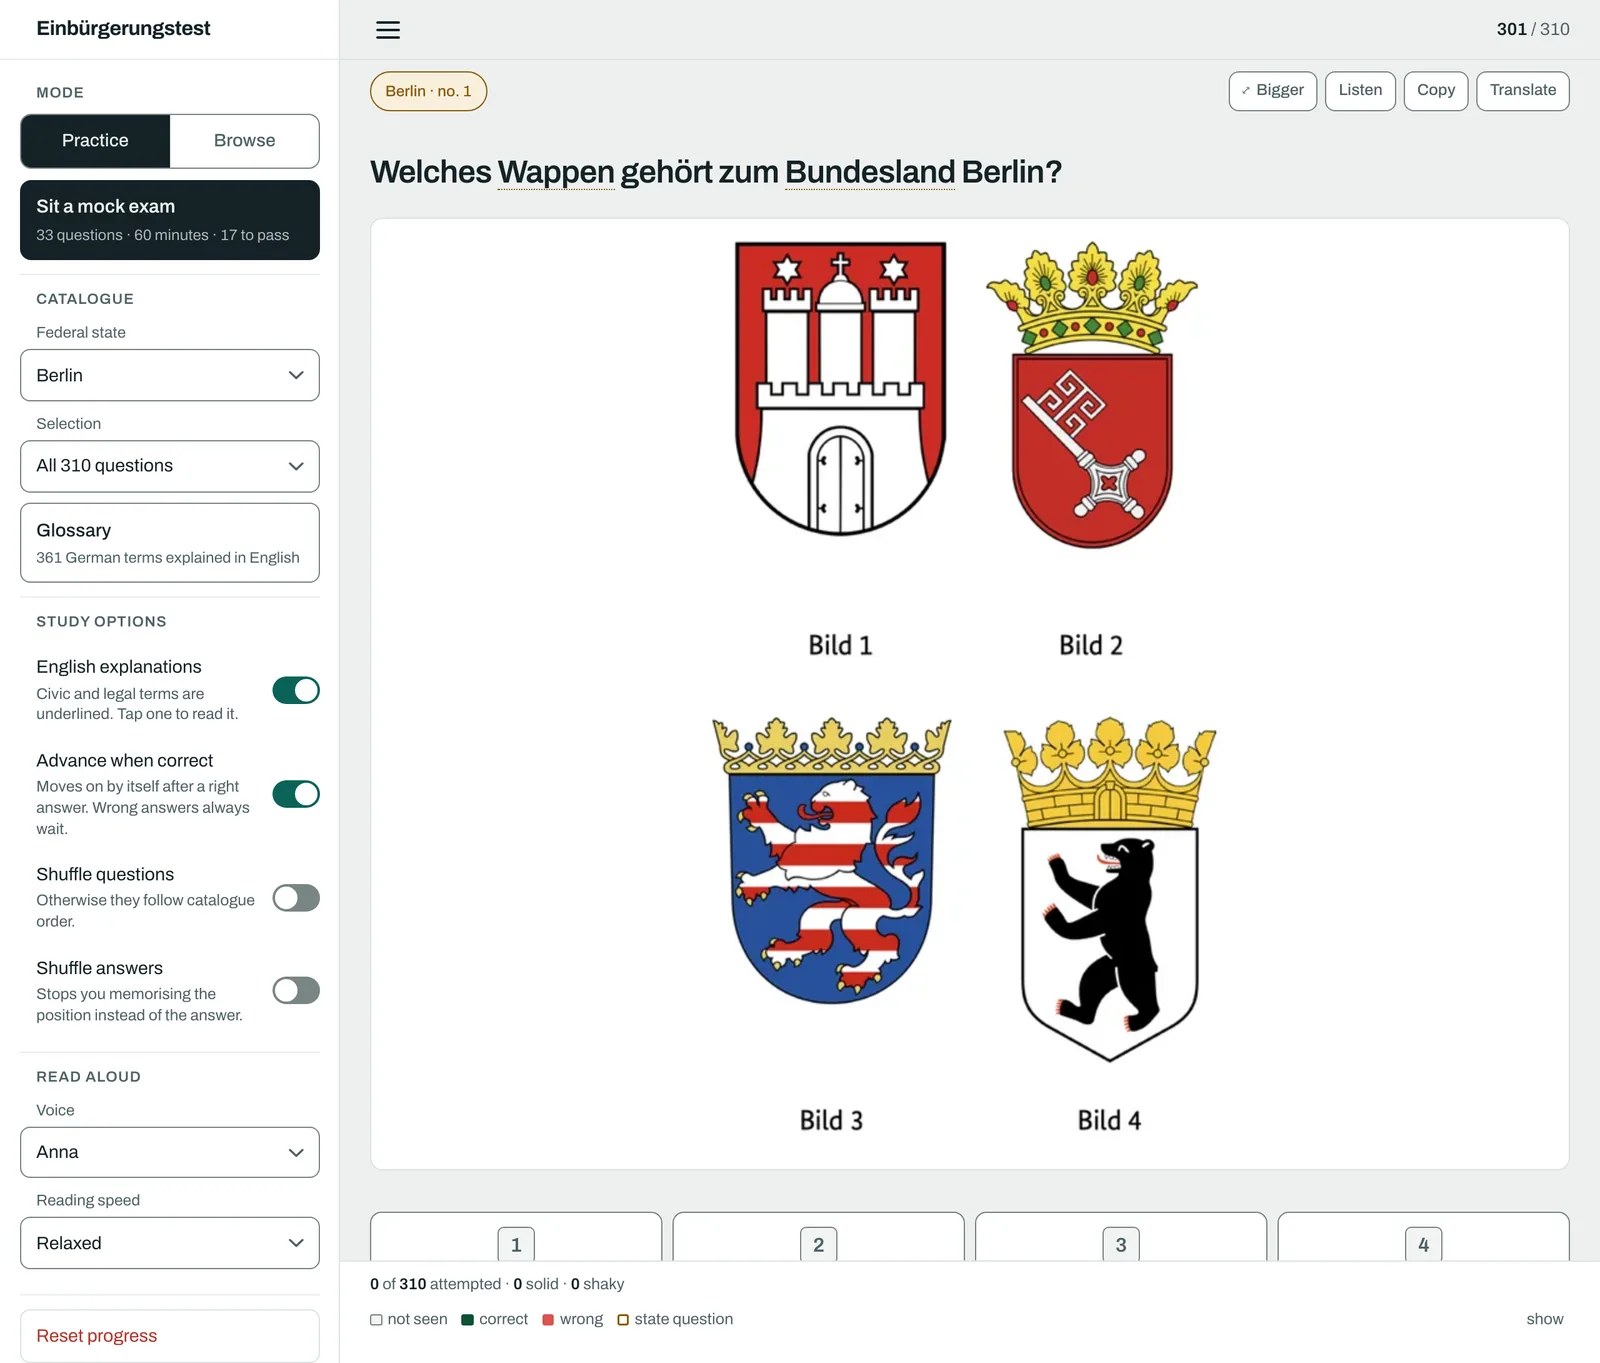
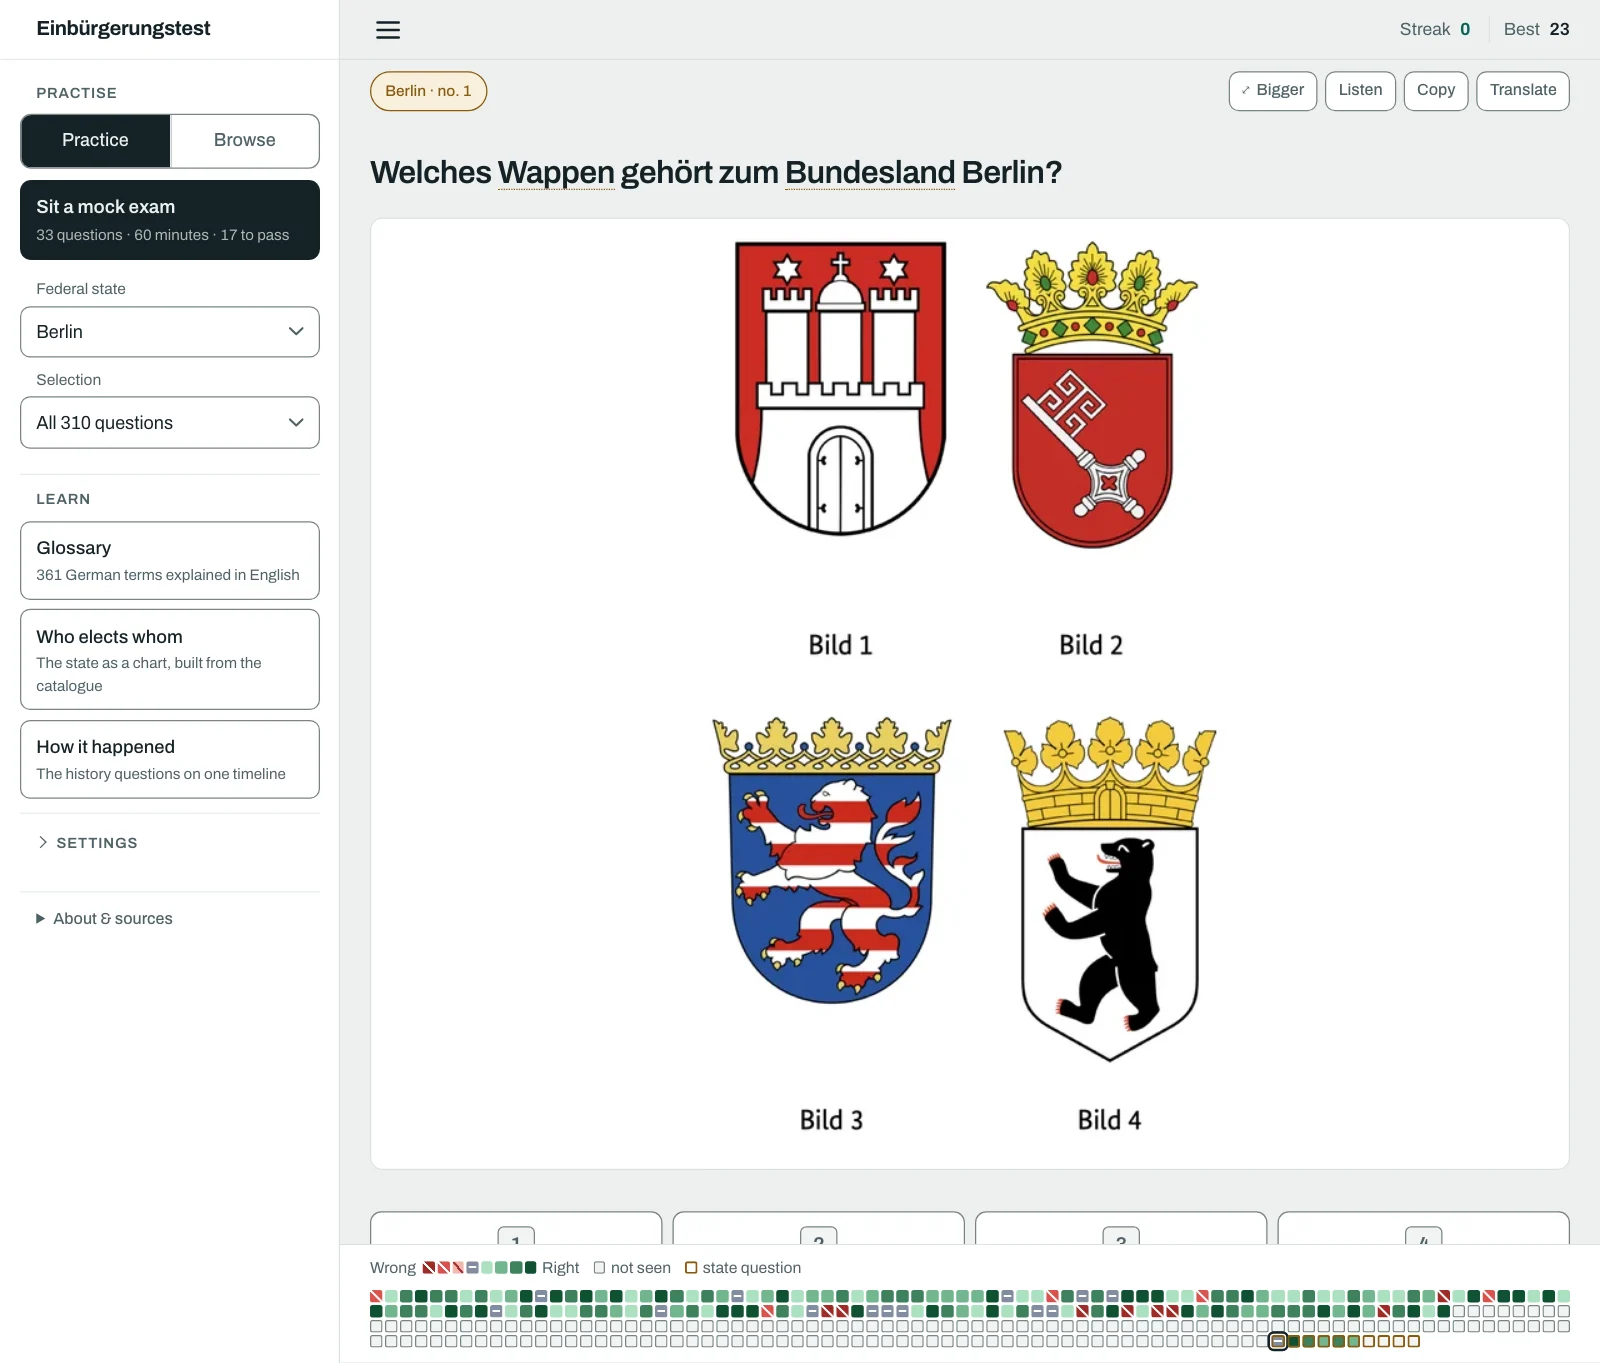
📝 docs: the README follows the new menu, and every screenshot is re-shot (#15)
The README described the app before the timeline and the new menu. Its
features now follow the menu: Practise (Practice, Browse, Exam), then a
Learn section for the glossary, Who elects whom and How it happened, with
a screenshot of the timeline's fork in 1949. The chart moves out of the
"While you study" list into Learn, where it now lives in the app.

All four screenshots showed the old menu, and the glossary its German
section headings. Re-shot from the running app in headless Chrome at the
same sizes and framing (1280px-wide viewports at 1.25x, the phone at
375x711), in light mode, from a seeded learner about half way through:
158 of 310 answered, Berlin, best streak 23. docs/timeline.webp is new.

Also: app.js is ~1,300 lines, not ~800.

diff --git a/README.md b/README.md
@@ -17,7 +17,7 @@ No build step, no server, no account, no tracking. Open it and it works, includi
 ![Code licence](https://img.shields.io/badge/code-MIT-0B6357?style=flat-square)
 
 <a href="https://jadrizk.github.io/einbuergerungstest-trainer/">
-  <img src="docs/practice.webp" alt="The practice view after a miss: the question's hook above it, the German question with civic terms underlined for English glosses, the wrong answer marked in red and the correct one in green, and a progress map of all 310 questions along the bottom, its cells running from slashed reds through a dashed grey to greens" width="880">
+  <img src="docs/practice.webp" alt="The practice view after a miss, with the menu on the left grouped into Practise, Learn and Settings: the question's hook above it, the German question with civic terms underlined for English glosses, the wrong answer marked in red and the correct one in green, and a progress map of all 310 questions along the bottom, its cells running from slashed reds through a dashed grey to greens" width="880">
 </a>
 
 </div>
@@ -31,13 +31,30 @@ states. The exam you sit draws 33 of them.
 
 ---
 
-## Three ways to study
+Everything sits in one menu, the same on every page: **Practise**, **Learn**, and **Settings**,
+which stays folded until you open it.
+
+## Practise
 
 | | |
 | --- | --- |
 | **Practice** | One question at a time with immediate feedback, tracking what you have already answered. Narrow it to questions you have never seen, or to ones you keep getting wrong. A right answer moves on by itself; a wrong one waits, because that pause is where the learning happens. |
 | **Browse** | Read straight through the catalogue without being quizzed. |
 | **Exam** | 33 questions under real conditions: 30 general and 3 from your state, nothing marked until you finish. 17 correct is a pass. Runs full screen as its own route, so the back button leaves the exam rather than the app, and past scores are kept. You can also draw from only what you have already answered, or from a range of catalogue numbers — handy while working through the catalogue in order. |
+
+## Learn
+
+Three ways to understand the questions rather than memorise them.
+
+| | |
+| --- | --- |
+| **Glossary** | 361 German civic and legal terms, each with a plain-English explanation, searchable in German or English. |
+| **Who elects whom** | A chart of who elects, appoints and scrutinises whom — Bund, Länder, Kommunen and the EU. Each body keeps the German name the questions use, with its English name beneath. Every box and arrow opens the catalogue questions behind it, and your state's own labels (term, voting age, what the head of government is called) are read from its ten questions. |
+| **How it happened** | The history questions on one timeline: 27 events from 1933 to 2002, which between them answer 77 of the catalogue's questions. The line splits into West and East Germany in 1949, the Wall fills in between them from 1961 to 1989, and the two join again in 1990. Each event opens to the questions it answers, with their answers and the wrong option it is most easily confused with, and shows how many of them you already know. |
+
+<div align="center">
+  <img src="docs/timeline.webp" alt="The timeline at 1949: under the heading Two German states, the line forks into West Germany (Bundesrepublik) in blue and East Germany (DDR) in gold, with the founding of each state on its own side" width="880">
+</div>
 
 ## While you study
 
@@ -63,11 +80,6 @@ states. The exam you sit draws 33 of them.
   Your best is kept with your progress.
 - **Copy or translate** any question with one click, for looking something up elsewhere or
   pasting it into your own notes.
-- **Who elects whom.** A chart of who elects, appoints and scrutinises whom — Bund, Länder,
-  Kommunen and the EU. Each body keeps the German name the questions use, with its English name
-  beneath. Every box and arrow opens the catalogue questions behind it, and your state's own
-  labels (term, voting age, what the head of government is called) are read from its ten
-  questions.
 - **Pick your state** to get the right 10 regional questions.
 - **Picture questions answer with a pointer.** In 36 of the 39, the options read only "Bild 3"
   or a bare "2" labelling a region on a map — nothing the picture does not already say. They are
@@ -129,7 +141,7 @@ no bundler: `git push` is the deploy.
 | `index.html` | The shell — markup only |
 | `tokens.css` | The colours both pages share, light and dark |
 | `app.css` | All the app's styling, and the self-hosted `@font-face` |
-| `app.js` | The whole app, an ES module, ~800 lines |
+| `app.js` | The practice app, an ES module, ~1,300 lines |
 | `data/questions.json` | The 460-question catalogue |
 | `data/glossary.json` | 361 German→English terms, a study aid |
 | `data/hooks.json` | One memory hook per question — derived, fetched after the page loads and never waited for |
